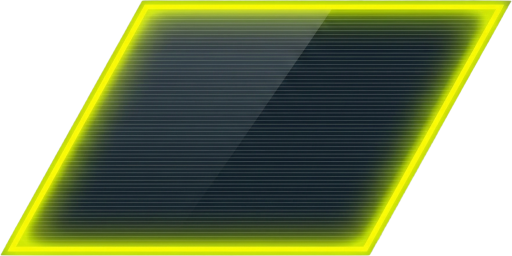
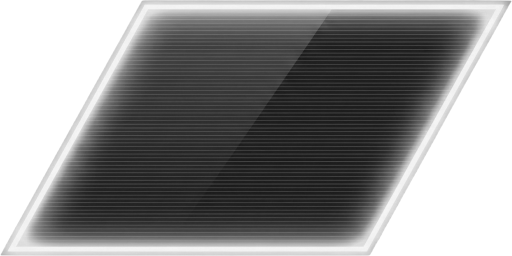
Feature : Implement Loot Entity Pulsing and UI updates
- LootEntity.cs: Added timeBeforeEntityPulse and added components to baker
- Game.unity: Updated UI labels and pulse configuration settings
- InGameUI.cs: Added serialized timer and visual elements
- GameUI.uxml: Added energy and health visual elements
- LootTag.cs: Created component
- PulseTag.cs: Created component
- TimeBeforeEntityPulseComponent.cs: Created component
- EntityPulseSystem.cs: Created system for tag management
- EntityPulseVfxSystem.cs: Created system for scaling effects

Changed region(s): [[0.0, 0.0, 1.0, 1.0]]

diff --git a/VoidWeave/Assets/Game/Scripts/UI/InGameUI.cs b/VoidWeave/Assets/Game/Scripts/UI/InGameUI.cs
@@ -12,7 +12,7 @@ namespace Game.Scripts.UI
     public class InGameUI : MonoBehaviour
     {
         #region Variables
-        
+
         private const int Wave1Index = 0;
         private const int Wave2Index = 1;
 
@@ -52,28 +52,35 @@ namespace Game.Scripts.UI
         private VisualElement _rootVisualElement;
         private VisualElement _winScreenVisualElement;
 
-        [SerializeField] private Color turretCooldownTimerLabelBorderColour;
-        [SerializeField] private Color turretCooldownTimerLabelBgColour;
+        [SerializeField] private Color playerDashCooldownTimerLabelBgColour;
+        [SerializeField] private Color playerDashCooldownTimerLabelBorderColour;
+        [SerializeField] private Color playerDashCooldownTimerLabelTextColour;
+        [SerializeField] private Color beamTurretCooldownTimerLabelBgColour;
+        [SerializeField] private Color beamTurretCooldownTimerLabelBorderColour;
+        [SerializeField] private Color scatterTurretCooldownTimerLabelBgColour;
+        [SerializeField] private Color scatterTurretCooldownTimerLabelBorderColour;
+        [SerializeField] private Color strikerTurretCooldownTimerLabelBgColour;
+        [SerializeField] private Color strikerTurretCooldownTimerLabelBorderColour;
         [SerializeField] private Color wavePrepTimerLabelSpriteTintColour;
 
+        [SerializeField] private float characterCooldownTimerLabelAnchorPercent;
+        [SerializeField] private float characterCooldownTimerLabelBorderWidth;
+        [SerializeField] private float characterCooldownTimerLabelFlipThreshold;
+        [SerializeField] private float characterCooldownTimerLabelFontSize;
+        [SerializeField] private float characterCooldownTimerLabelHeight;
+        [SerializeField] private float characterCooldownTimerLabelOffsetX;
+        [SerializeField] private float characterCooldownTimerLabelOffsetY;
+        [SerializeField] private float characterCooldownTimerLabelPadding;
+        [SerializeField] private float characterCooldownTimerLabelTranslatePercentX;
+        [SerializeField] private float characterCooldownTimerLabelTranslatePercentY;
+        [SerializeField] private float characterCooldownTimerLabelTranslatePercentZ;
+        [SerializeField] private float characterCooldownTimerLabelWidth;
         [SerializeField] private float maxOpacity;
         [SerializeField] private float minOpacity;
         [SerializeField] private float pulseSpeed;
         [SerializeField] private float sineDivisor;
         [SerializeField] private float sineOffset;
-        [SerializeField] private float turretCooldownThreshold;
-        [SerializeField] private float turretCooldownTimerLabelAnchorPercent;
-        [SerializeField] private float turretCooldownTimerLabelBorderWidth;
-        [SerializeField] private float turretCooldownTimerLabelFlipThreshold;
-        [SerializeField] private float turretCooldownTimerLabelFontSize;
-        [SerializeField] private float turretCooldownTimerLabelHeight;
-        [SerializeField] private float turretCooldownTimerLabelOffsetX;
-        [SerializeField] private float turretCooldownTimerLabelOffsetY;
-        [SerializeField] private float turretCooldownTimerLabelPadding;
-        [SerializeField] private float turretCooldownTimerLabelTranslatePercentX;
-        [SerializeField] private float turretCooldownTimerLabelTranslatePercentY;
-        [SerializeField] private float turretCooldownTimerLabelTranslatePercentZ;
-        [SerializeField] private float turretCooldownTimerLabelWidth;
+        [SerializeField] private float turretCooldownTime;
         [SerializeField] private float tutorialLabelBottomPercent;
         [SerializeField] private float tutorialLabelPaddingBottom;
         [SerializeField] private float tutorialLabelPaddingLeft;
@@ -250,11 +257,8 @@ namespace Game.Scripts.UI
                 _loseScreenVisualElement.style.display = DisplayStyle.Flex;
             }
 
-            foreach(var button in _inGameUIButtonsList)
-            {
-                Pulse(button);
-            }
-            
+            foreach(var button in _inGameUIButtonsList) { Pulse(button); }
+
             Pulse(_currentBlinkingLabel);
         }
 
@@ -367,28 +371,29 @@ namespace Game.Scripts.UI
                 {
                     style =
                     {
-                        backgroundColor = turretCooldownTimerLabelBgColour ,
-                        borderBottomColor = turretCooldownTimerLabelBorderColour ,
-                        borderBottomWidth = turretCooldownTimerLabelBorderWidth ,
-                        borderLeftColor = turretCooldownTimerLabelBorderColour ,
-                        borderLeftWidth = turretCooldownTimerLabelBorderWidth ,
-                        borderRightColor = turretCooldownTimerLabelBorderColour ,
-                        borderRightWidth = turretCooldownTimerLabelBorderWidth ,
-                        borderTopColor = turretCooldownTimerLabelBorderColour ,
-                        borderTopWidth = turretCooldownTimerLabelBorderWidth ,
-                        fontSize = turretCooldownTimerLabelFontSize ,
-                        height = turretCooldownTimerLabelHeight ,
-                        left = Length.Percent(turretCooldownTimerLabelAnchorPercent) ,
-                        paddingBottom = turretCooldownTimerLabelPadding ,
-                        paddingLeft = turretCooldownTimerLabelPadding ,
-                        paddingRight = turretCooldownTimerLabelPadding ,
-                        paddingTop = turretCooldownTimerLabelPadding ,
+                        backgroundColor = playerDashCooldownTimerLabelBgColour ,
+                        borderBottomColor = playerDashCooldownTimerLabelBorderColour ,
+                        borderBottomWidth = characterCooldownTimerLabelBorderWidth ,
+                        borderLeftColor = playerDashCooldownTimerLabelBorderColour ,
+                        borderLeftWidth = characterCooldownTimerLabelBorderWidth ,
+                        borderRightColor = playerDashCooldownTimerLabelBorderColour ,
+                        borderRightWidth = characterCooldownTimerLabelBorderWidth ,
+                        borderTopColor = playerDashCooldownTimerLabelBorderColour ,
+                        borderTopWidth = characterCooldownTimerLabelBorderWidth ,
+                        color = playerDashCooldownTimerLabelTextColour ,
+                        fontSize = characterCooldownTimerLabelFontSize ,
+                        height = characterCooldownTimerLabelHeight ,
+                        left = Length.Percent(characterCooldownTimerLabelAnchorPercent) ,
+                        paddingBottom = characterCooldownTimerLabelPadding ,
+                        paddingLeft = characterCooldownTimerLabelPadding ,
+                        paddingRight = characterCooldownTimerLabelPadding ,
+                        paddingTop = characterCooldownTimerLabelPadding ,
                         position = Position.Absolute ,
-                        top = Length.Percent(turretCooldownTimerLabelAnchorPercent) ,
-                        translate = new Translate(Length.Percent(turretCooldownTimerLabelTranslatePercentX) , Length.Percent(turretCooldownTimerLabelTranslatePercentY) , turretCooldownTimerLabelTranslatePercentZ) ,
+                        top = Length.Percent(characterCooldownTimerLabelAnchorPercent) ,
+                        translate = new Translate(Length.Percent(characterCooldownTimerLabelTranslatePercentX) , Length.Percent(characterCooldownTimerLabelTranslatePercentY) , characterCooldownTimerLabelTranslatePercentZ) ,
                         unityFontStyleAndWeight = FontStyle.Bold ,
                         unityTextAlign = TextAnchor.MiddleCenter ,
-                        width = turretCooldownTimerLabelWidth
+                        width = characterCooldownTimerLabelWidth
                     }
                 };
 
@@ -404,7 +409,7 @@ namespace Game.Scripts.UI
             _entityManager.CompleteDependencyBeforeRO<ScreenBoundaryYComponent>();
             float boundaryY = _boundaryYQuery.GetSingleton<ScreenBoundaryYComponent>().Value;
 
-            if(worldPosition.y >= boundaryY - turretCooldownTimerLabelFlipThreshold) { cooldownLabel.style.top = screenPoint.y + turretCooldownTimerLabelOffsetY; }
+            if(worldPosition.y >= boundaryY - characterCooldownTimerLabelFlipThreshold) { cooldownLabel.style.top = screenPoint.y + characterCooldownTimerLabelOffsetY; }
             else { cooldownLabel.style.top = screenPoint.y; }
 
             cooldownLabel.style.left = screenPoint.x;
@@ -412,7 +417,7 @@ namespace Game.Scripts.UI
 
         private void OnTurretCooldownStarted(Entity entity , float timer , float3 worldPosition)
         {
-            if(timer <= turretCooldownThreshold)
+            if(timer <= turretCooldownTime)
             {
                 if(_turretCooldownLabelsDictionary.TryGetValue(entity , out Label label))
                 {
@@ -425,32 +430,47 @@ namespace Game.Scripts.UI
 
             if(!_turretCooldownLabelsDictionary.TryGetValue(entity , out Label cooldownLabel))
             {
+                Color bgColor = strikerTurretCooldownTimerLabelBgColour;
+                Color borderColor = strikerTurretCooldownTimerLabelBorderColour;
+
+                if(_entityManager.HasComponent<ScatterTurretTag>(entity))
+                {
+                    bgColor = scatterTurretCooldownTimerLabelBgColour;
+                    borderColor = scatterTurretCooldownTimerLabelBorderColour;
+                }
+                
+                else if(_entityManager.HasComponent<BeamTurretTag>(entity))
+                {
+                    bgColor = beamTurretCooldownTimerLabelBgColour;
+                    borderColor = beamTurretCooldownTimerLabelBorderColour;
+                }
+
                 cooldownLabel = new Label
                 {
                     style =
                     {
-                        backgroundColor = turretCooldownTimerLabelBgColour ,
-                        borderBottomColor = turretCooldownTimerLabelBorderColour ,
-                        borderBottomWidth = turretCooldownTimerLabelBorderWidth ,
-                        borderLeftColor = turretCooldownTimerLabelBorderColour ,
-                        borderLeftWidth = turretCooldownTimerLabelBorderWidth ,
-                        borderRightColor = turretCooldownTimerLabelBorderColour ,
-                        borderRightWidth = turretCooldownTimerLabelBorderWidth ,
-                        borderTopColor = turretCooldownTimerLabelBorderColour ,
-                        borderTopWidth = turretCooldownTimerLabelBorderWidth ,
-                        fontSize = turretCooldownTimerLabelFontSize ,
-                        height = turretCooldownTimerLabelHeight ,
-                        left = Length.Percent(turretCooldownTimerLabelAnchorPercent) ,
-                        paddingBottom = turretCooldownTimerLabelPadding ,
-                        paddingLeft = turretCooldownTimerLabelPadding ,
-                        paddingRight = turretCooldownTimerLabelPadding ,
-                        paddingTop = turretCooldownTimerLabelPadding ,
+                        backgroundColor = bgColor ,
+                        borderBottomColor = borderColor ,
+                        borderBottomWidth = characterCooldownTimerLabelBorderWidth ,
+                        borderLeftColor = borderColor ,
+                        borderLeftWidth = characterCooldownTimerLabelBorderWidth ,
+                        borderRightColor = borderColor ,
+                        borderRightWidth = characterCooldownTimerLabelBorderWidth ,
+                        borderTopColor = borderColor ,
+                        borderTopWidth = characterCooldownTimerLabelBorderWidth ,
+                        fontSize = characterCooldownTimerLabelFontSize ,
+                        height = characterCooldownTimerLabelHeight ,
+                        left = Length.Percent(characterCooldownTimerLabelAnchorPercent) ,
+                        paddingBottom = characterCooldownTimerLabelPadding ,
+                        paddingLeft = characterCooldownTimerLabelPadding ,
+                        paddingRight = characterCooldownTimerLabelPadding ,
+                        paddingTop = characterCooldownTimerLabelPadding ,
                         position = Position.Absolute ,
-                        top = Length.Percent(turretCooldownTimerLabelAnchorPercent) ,
-                        translate = new Translate(Length.Percent(turretCooldownTimerLabelTranslatePercentX) , Length.Percent(turretCooldownTimerLabelTranslatePercentY) , turretCooldownTimerLabelTranslatePercentZ) ,
+                        top = Length.Percent(characterCooldownTimerLabelAnchorPercent) ,
+                        translate = new Translate(Length.Percent(characterCooldownTimerLabelTranslatePercentX) , Length.Percent(characterCooldownTimerLabelTranslatePercentY) , characterCooldownTimerLabelTranslatePercentZ) ,
                         unityFontStyleAndWeight = FontStyle.Bold ,
                         unityTextAlign = TextAnchor.MiddleCenter ,
-                        width = turretCooldownTimerLabelWidth
+                        width = characterCooldownTimerLabelWidth
                     }
                 };
 
@@ -466,7 +486,7 @@ namespace Game.Scripts.UI
             _entityManager.CompleteDependencyBeforeRO<ScreenBoundaryYComponent>();
             float boundaryY = _boundaryYQuery.GetSingleton<ScreenBoundaryYComponent>().Value;
 
-            if(worldPosition.y >= boundaryY - turretCooldownTimerLabelFlipThreshold) { cooldownLabel.style.top = screenPoint.y + turretCooldownTimerLabelOffsetY; }
+            if(worldPosition.y >= boundaryY - characterCooldownTimerLabelFlipThreshold) { cooldownLabel.style.top = screenPoint.y + characterCooldownTimerLabelOffsetY; }
             else { cooldownLabel.style.top = screenPoint.y; }
 
             cooldownLabel.style.left = screenPoint.x;
@@ -512,7 +532,7 @@ namespace Game.Scripts.UI
                     if(currentLevel == tutorialLevel1) { _tutorialLabel.text = level1TutorialText; }
                     else if(currentLevel == tutorialLevel2) { _tutorialLabel.text = level2TutorialText; }
                     else if(currentLevel == tutorialLevel3) { _tutorialLabel.text = level3TutorialText; }
-                    else if(currentLevel == tutorialLevel4) { _tutorialLabel.text = level4TutorialText; } 
+                    else if(currentLevel == tutorialLevel4) { _tutorialLabel.text = level4TutorialText; }
                 }
                 else
                 {
@@ -587,7 +607,7 @@ namespace Game.Scripts.UI
         #endregion
 
         #region Custom Functions
-        
+
         private void AddLabelToPulse(Label label) { _currentBlinkingLabel = label; }
 
         private void Pulse(VisualElement element)

diff --git a/VoidWeave/Assets/Game/Scripts/Systems/EntityPulseSystem.cs b/VoidWeave/Assets/Game/Scripts/Systems/EntityPulseSystem.cs
@@ -1,0 +1,45 @@
+namespace Game.Scripts.Systems
+{
+    using Components;
+    using Unity.Burst;
+    using Unity.Entities;
+    using Unity.Mathematics;
+
+    [UpdateInGroup(typeof(GameplaySystemGroup))]
+    [UpdateBefore(typeof(LifetimeSystem))]
+    public partial struct EntityPulseSystem : ISystem
+    {
+        [BurstCompile]
+        public void OnCreate(ref SystemState systemState)
+        {
+            systemState.RequireForUpdate<BeginSimulationEntityCommandBufferSystem.Singleton>();
+            
+            systemState.RequireForUpdate<DoActionComponent>();
+            systemState.RequireForUpdate<NoActionComponent>();
+        }
+
+        [BurstCompile]
+        public void OnUpdate(ref SystemState systemState)
+        {
+            int doAction = SystemAPI.GetSingleton<DoActionComponent>().Value;
+            int noAction = SystemAPI.GetSingleton<NoActionComponent>().Value;
+
+            new PulseJob { DoAction = doAction , EntityCommandBuffer = SystemAPI.GetSingleton<BeginSimulationEntityCommandBufferSystem.Singleton>().CreateCommandBuffer(systemState.WorldUnmanaged).AsParallelWriter() , NoAction = noAction}.ScheduleParallel();
+        }
+    }
+
+    [BurstCompile]
+    [WithAll(typeof(LootTag))]
+    [WithNone(typeof(PulseTag))]
+    public partial struct PulseJob : IJobEntity
+    {
+        public int DoAction;
+        public EntityCommandBuffer.ParallelWriter EntityCommandBuffer;
+        public int NoAction;
+
+        private void Execute(Entity entity , [EntityIndexInQuery] int entityInQueryIndex , in LifetimeComponent lifetimeComponent , in TimeBeforeEntityPulseComponent timeBeforePulse)
+        {
+            for(var i = 0 ; i < math.select(NoAction , DoAction , lifetimeComponent.Value <= timeBeforePulse.Value) ; i++) EntityCommandBuffer.AddComponent(entityInQueryIndex , entity , new PulseTag());
+        }
+    }
+}

diff --git a/VoidWeave/Assets/Game/Scripts/Entities/LootEntity.cs b/VoidWeave/Assets/Game/Scripts/Entities/LootEntity.cs
@@ -6,14 +6,21 @@ namespace Game.Scripts.Entities
 
     public class LootEntity : MonoBehaviour
     {
+        [SerializeField] private float lifetime;
+        [SerializeField] private float timeBeforeEntityPulse;
+        
         private class LootBaker : Baker<LootEntity>
         {
             public override void Bake(LootEntity authoring)
             {
                 Entity entity = GetEntity(TransformUsageFlags.Dynamic);
 
+                AddComponent(entity , new LifetimeComponent { Value = authoring.lifetime });
                 AddComponent(entity , new LootAmountComponent());
+                AddComponent(entity , new TimeBeforeEntityPulseComponent { Value = authoring.timeBeforeEntityPulse });
+                
                 AddComponent(entity , new LootPickupTag());
+                AddComponent(entity , new LootTag());
             }
         }
     }

diff --git a/VoidWeave/Assets/Game/Scripts/Systems/EntityPulseVfxSystem.cs b/VoidWeave/Assets/Game/Scripts/Systems/EntityPulseVfxSystem.cs
@@ -1,0 +1,24 @@
+namespace Game.Scripts.Systems
+{
+    using Components;
+    using Unity.Burst;
+    using Unity.Entities;
+    using Unity.Transforms;
+    using Unity.Mathematics;
+
+    [UpdateInGroup(typeof(PresentationSystemGroup))]
+    public partial struct EntityPulseVfxSystem : ISystem
+    {
+        [BurstCompile]
+        public void OnUpdate(ref SystemState state)
+        {
+            float time = (float)SystemAPI.Time.ElapsedTime;
+
+            foreach(RefRW<LocalTransform> transform in SystemAPI.Query<RefRW<LocalTransform>>().WithAll<PulseTag>())
+            {
+                float scale = 1.0f + math.sin(time * 10.0f) * 0.2f;
+                transform.ValueRW.Scale = scale;
+            }
+        }
+    }
+}

diff --git a/VoidWeave/Assets/Game/Scripts/Components/TimeBeforeEntityPulseComponent.cs b/VoidWeave/Assets/Game/Scripts/Components/TimeBeforeEntityPulseComponent.cs
@@ -1,0 +1,9 @@
+namespace Game.Scripts.Components
+{
+    using Unity.Entities;
+
+    public struct TimeBeforeEntityPulseComponent : IComponentData 
+    {
+        public float Value;
+    }
+}

diff --git a/VoidWeave/Assets/Game/Scripts/Components/PulseTag.cs b/VoidWeave/Assets/Game/Scripts/Components/PulseTag.cs
@@ -1,0 +1,6 @@
+namespace Game.Scripts.Components
+{
+    using Unity.Entities;
+
+    public struct PulseTag : IComponentData {}
+}

diff --git a/VoidWeave/Assets/Game/Scripts/Components/LootTag.cs b/VoidWeave/Assets/Game/Scripts/Components/LootTag.cs
@@ -1,0 +1,6 @@
+namespace Game.Scripts.Components
+{
+    using Unity.Entities;
+
+    public struct LootTag : IComponentData {}
+}
